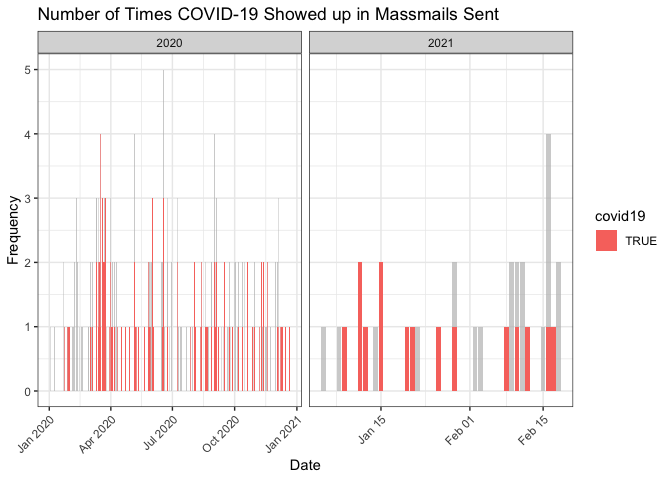
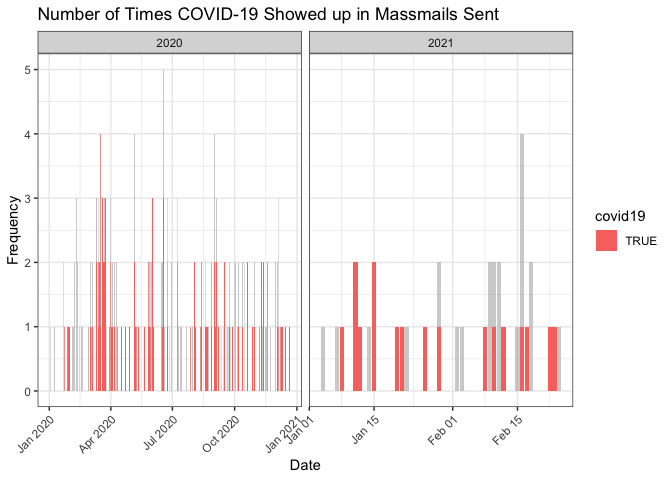
Re-build README.Rmd and Graphs

diff --git a/README.md b/README.md
@@ -17,7 +17,7 @@ The archive may be viewed here:
 
 <https://massmail.illinois.edu/massmailArchive>
 
-Data has **1288** observations and **7** variables:
+Data has **1291** observations and **7** variables:
 
   - `datetime`: Date and time when the email was sent in the form of
     `YYYY-MM-DD HMS` with either CDT or CST.
@@ -210,16 +210,16 @@ head(most_popular_words, 10) %>%
 
 | word        | freq |
 | :---------- | ---: |
-| students    |  821 |
-| university  |  772 |
-| campus      |  769 |
-| illinois    |  487 |
-| covid       |  440 |
-| faculty     |  408 |
-| community   |  403 |
-| information |  364 |
-| staff       |  330 |
-| student     |  320 |
+| students    |  825 |
+| campus      |  776 |
+| university  |  776 |
+| illinois    |  497 |
+| covid       |  442 |
+| faculty     |  419 |
+| community   |  405 |
+| information |  366 |
+| staff       |  332 |
+| student     |  323 |
 
 #### Wordcloud
 
